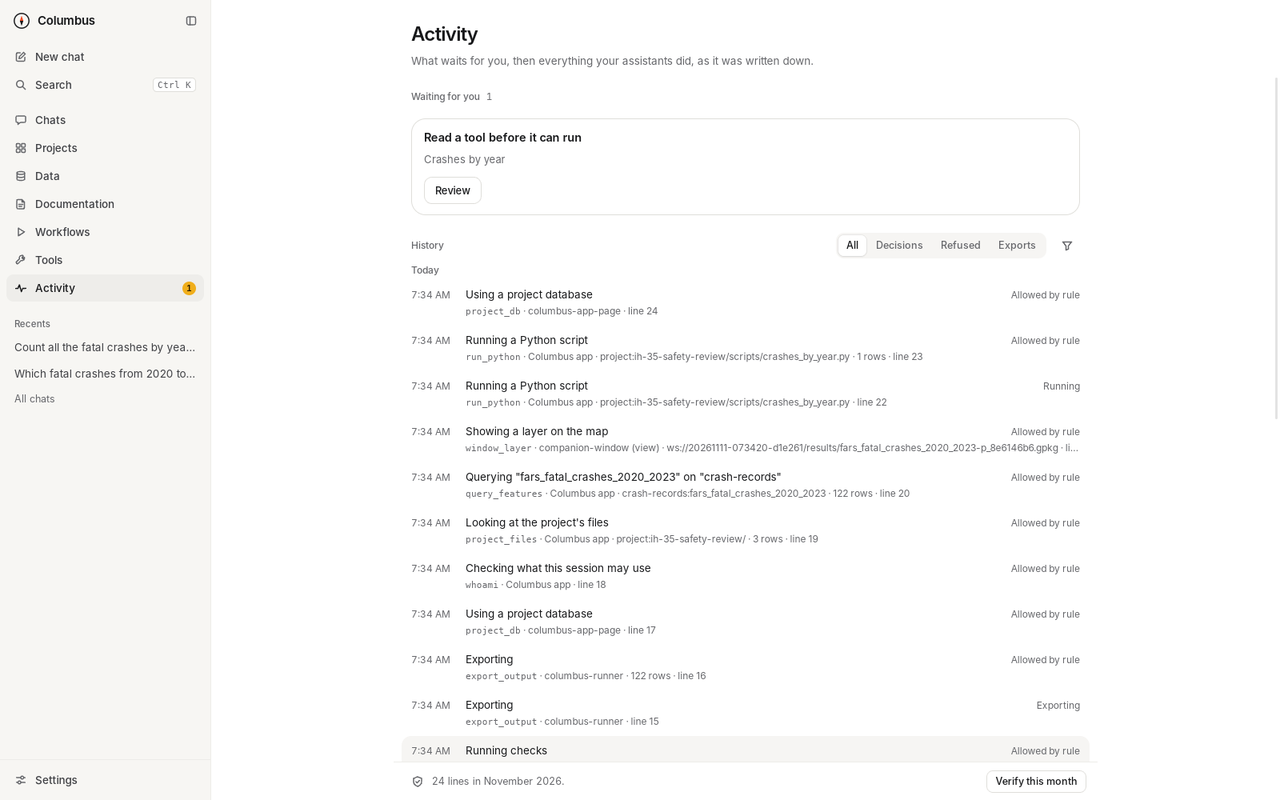
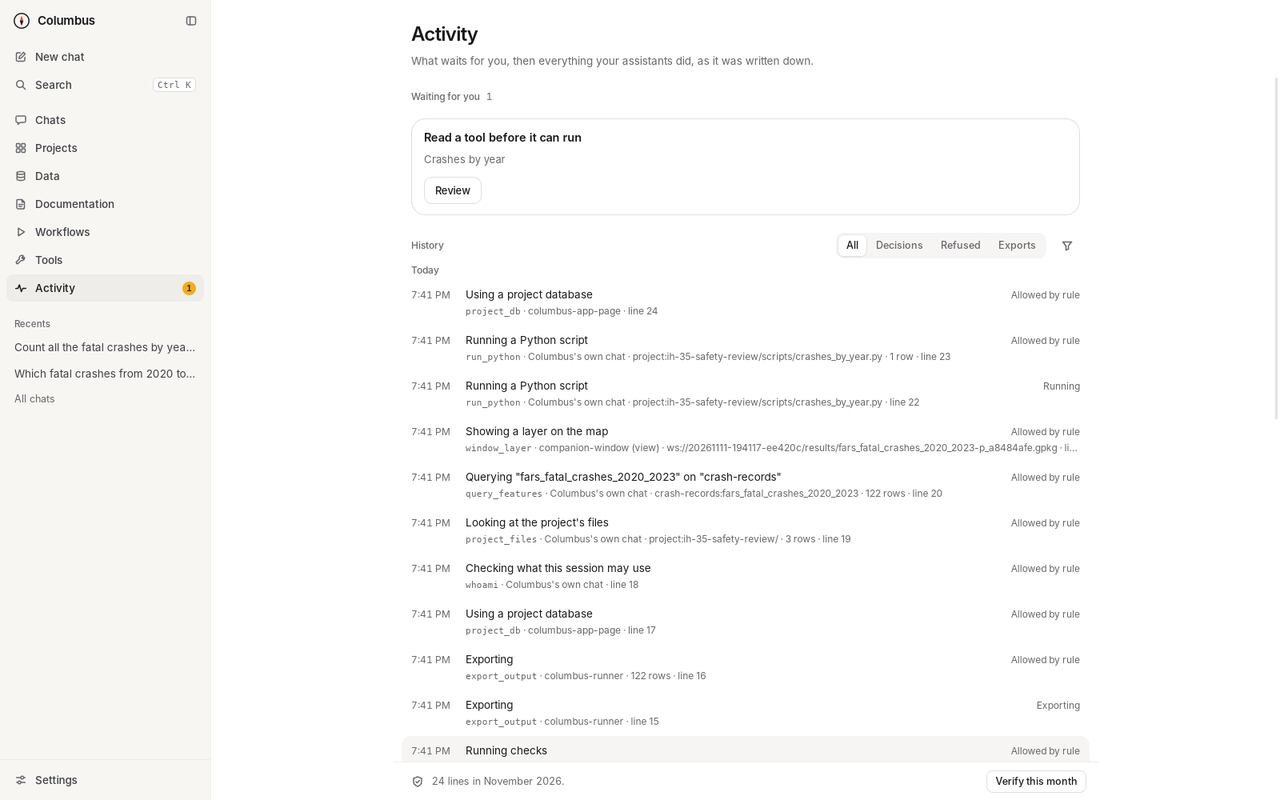
Pictures: the AI service in the first run, Settings and the chat's foot, retaken from the app (T-39)
Retaken with screenshots.py from the app built at ef720b8, and looked at
one by one. Only pictures whose content changed are here; the others
differed in run ids and times alone and stay as they were.

- first-run.png: "Connect an AI for the chat" is now a list of AI
  services. The picture has one that runs on this computer and takes no
  key picked from it, so the row reads the same on every system.
- settings.png: the Assistant rows name the AI service.
- settings-assistant.png, new: Settings › Assistant, with the service for
  new chats, its key and its model.
- start.png, chat.png, tour-checks, hero: the chat's foot names its AI
  service beside its model. The hero's window is 1360 pixels wide (was
  1240), so the foot has room for the project's name too.
- activity.png: the app's own chat is named "Columbus's own chat".
- demo.webp and demo.gif: remade from the new frames (the foot's words).

screenshots.py: the first run picks a service and goes back to
Anthropic, which the stand-in speaks as; keys are kept by the tests'
stand-in for the credential store, so Settings › Assistant shows what
Windows and macOS show; Settings is drawn before its picture is taken.

Claude-Session: https://claude.ai/code/session_01UjJQzTYxWvqpnBNCrL71n9

diff --git a/app/desktop/e2e/screenshots.py b/app/desktop/e2e/screenshots.py
@@ -21,9 +21,19 @@ confirmation at the keyboard is the tests' stand-in, since Linux has no
 Touch ID or Windows Hello). That writes the policy's seven settings, so
 the second session shows the app as it is from then on: the chat, a
 workflow, the data, a project with its files and a chat that runs one of
-its scripts in the sandbox without asking, and the Tools page with
-Columbus's own catalogue. Nothing is downloaded or installed: no toolbox
-is shown that is not really there.
+its scripts in the sandbox without asking, the Tools page with
+Columbus's own catalogue, and Settings with its Assistant part. Nothing
+is downloaded or installed: no toolbox is shown that is not really there.
+
+The AI service. For the first run's picture the person picks a service
+from the list under "Connect an AI for the chat" (Ollama on this
+computer, which takes no key, so the row reads the same on every system),
+then goes back to Anthropic, which the stand-in speaks as. No real AI
+service is contacted and no real key is used: the chat's key is a made-up
+one from the environment, and keys are kept by the tests' stand-in for
+the credential store (COLUMBUS_APP_TEST_KEYS, debug builds only), since
+Linux has no store Columbus can use; so Settings › Assistant shows what
+Windows and macOS show, not the notice Linux gets in its place.
 
 The data: app/desktop/e2e/demo/austin.gpkg, a public extract (US Census
 TIGER/Line roads and blocks, NHTSA FARS fatal crashes; see
@@ -47,6 +57,7 @@ from urllib.parse import unquote
 
 from selenium.webdriver.common.by import By
 from selenium.webdriver.support import expected_conditions as EC
+from selenium.webdriver.support.ui import Select
 
 import guard
 from guard import step
@@ -71,9 +82,12 @@ APP = Path(ARGS.app).resolve()
 ROOT = Path(ARGS.root)
 
 W, H = 1600, 1000
-# The hero's window: the chat with its map beside it, at about the size the
-# README shows it (900 pixels wide), so the words are readable.
-HERO = (1240, 760)
+# The hero's window: the chat with its map beside it, near the size the
+# README shows it (900 pixels wide), so the words are readable; and wide
+# enough that the chat's foot has room for the project, the AI service, the
+# model and the thinking level (under about 1340 pixels, with the panel at
+# the width it starts with, the project's name is cut short).
+HERO = (1360, 760)
 QUESTION = "Which fatal crashes from 2020 to 2023 happened within 150 feet of IH 35 in central Austin? Count them by year."
 EXPORT_ASK = "Export those crashes to the review folder for the safety team."
 CRASHES = "fars_fatal_crashes_2020_2023"
@@ -481,10 +495,11 @@ def layers_on(d, names=None):
 
 def app_env(srv=None):
     """The app's settings for a session; with `srv`, an AI is connected
-    (the stand-in). Confirmations at the keyboard are the tests' stand-in."""
+    (the stand-in). Confirmations at the keyboard are the tests' stand-in,
+    and so is the credential store that keeps the keys of AI services."""
     col = ROOT / "Columbus"
     env = dict(os.environ, HOME=str(ROOT),
-               COLUMBUS_SERVER=str(col / "columbus-mcp"), COLUMBUS_APP_TEST_CONFIRM="allow",
+               COLUMBUS_SERVER=str(col / "columbus-mcp"), COLUMBUS_APP_TEST_CONFIRM="allow", COLUMBUS_APP_TEST_KEYS="memory",
                COLUMBUS_POLICY=str(col / "policy.yaml"), COLUMBUS_CONNECTIONS=str(col / "connections"),
                COLUMBUS_WORKSPACES=str(col / "workspaces"), COLUMBUS_AUDIT_DIR=str(col / "audit"),
                COLUMBUS_LIVE_DIR=str(col / "live"), COLUMBUS_TOOLS=str(col / "tools"),
@@ -499,9 +514,25 @@ def app_env(srv=None):
     return env
 
 
+def choose(d, select_id, value):
+    """Choose an option of a select as a person does, with the select in
+    hand first (WebKit sends `change` only when the choice differs from the
+    one it noted when the select last took the focus)."""
+    d.execute_script("const s = document.getElementById(arguments[0]); s.blur(); s.focus();", select_id)
+    Select(d.find_element(By.ID, select_id)).select_by_value(value)
+
+
+def service_in_use(d):
+    """The AI service new chats use, as the app's settings have it."""
+    return d.execute_async_script("""
+        const done = arguments[arguments.length - 1];
+        window.__TAURI__.core.invoke('chat_settings').then((s) => done(s.service), () => done(null));""")
+
+
 def first_run(theme):
-    """A new computer: no connection, no AI. The first steps ask how the
-    assistant should work, and the person chooses Work freely on copies."""
+    """A new computer: no connection, no AI. The first steps offer the AI
+    services for the chat and ask how the assistant should work; the person
+    chooses Work freely on copies."""
     step(f"{theme}: the first run, and the choice")
     d, proc = guard.driver(app_env(), APP)
     s = Session(theme, None)
@@ -521,9 +552,22 @@ def first_run(theme):
         for line in ["allow_scripts: true", "approval: none", "allow_toolboxes: true", "allow_project_files: true", "allow_sync: true"]:
             if line not in policy:
                 sys.exit(f"the choice did not write {line!r} to the policy file:\n{policy}")
+        # The AI for the chat is a choice: here one that runs on this
+        # computer and takes no key. The row says what it needs.
+        choose(d, "fr-service", "ollama")
+        wait.until(lambda drv: "Ollama must be running" in drv.find_element(By.ID, "fr-ai-about").text
+                   and "On now: Work freely on copies." in drv.find_element(By.ID, "fr-work-state").text)
+        if service_in_use(d) != "ollama":
+            sys.exit("the first run did not keep the service that was picked")
+        d.execute_script("document.activeElement && document.activeElement.blur();")
         s.quiet()
         if theme == "light":
             s.shot("first-run", 250, size=(1280, 800))
+        # Back to the service the stand-in speaks as, for the next session.
+        choose(d, "fr-service", "anthropic")
+        wait.until(lambda drv: "console.anthropic.com" in drv.find_element(By.ID, "fr-ai-about").text)
+        if service_in_use(d) != "anthropic":
+            sys.exit("the first run did not go back to Anthropic")
     finally:
         guard.stop(d, proc)
 
@@ -549,6 +593,8 @@ def run(theme, facts, frames):
         # The app opens on a question in the middle of the window.
         box = wait.until(EC.visibility_of_element_located((By.ID, "text")))
         wait.until(lambda drv: drv.execute_script("return !!document.querySelector('.chat-empty .starters')"))
+        # The chat's foot names its AI service: the one the stand-in speaks as.
+        wait.until(lambda drv: drv.execute_script("return (document.getElementById('chat-service') || {}).textContent") == "Anthropic")
         time.sleep(2)
         if theme == "light":
             s.shot("start", 250, size=(1280, 800))
@@ -735,7 +781,19 @@ def run(theme, facts, frames):
             for page, name in [("#/activity", "activity"), ("#/settings", "settings")]:
                 d.execute_script("location.hash = arguments[0]", page)
                 time.sleep(1.5)
+                if name == "settings":
+                    # The sheet reads its parts from the app: drawn, each of them, before the picture.
+                    WebDriverWait(d, 20).until(lambda drv: drv.execute_script("""
+                        const m = document.getElementById('work-state'), s = document.getElementById('set-service-line');
+                        return !!m && /On now/.test(m.textContent) && !!s && /Anthropic/.test(s.textContent);"""))
                 s.shot(name, 250, size=(1280, 800))
+            # The Assistant part of Settings: the AI service for the chat,
+            # its key and its model, as the sheet opens.
+            d.execute_script("location.hash = '#/settings/ai'")
+            WebDriverWait(d, 20).until(lambda drv: drv.execute_script("""
+                const s = document.getElementById('service'), k = document.getElementById('key-state'), e = document.getElementById('apps-entry');
+                return !!s && s.value === 'anthropic' && !!k && /Key saved/.test(k.textContent) && !!e && /columbus-mcp/.test(e.textContent);"""))
+            s.shot("settings-assistant", 250, size=(1280, 800))
     finally:
         guard.stop(d, proc)
         srv.shutdown()
